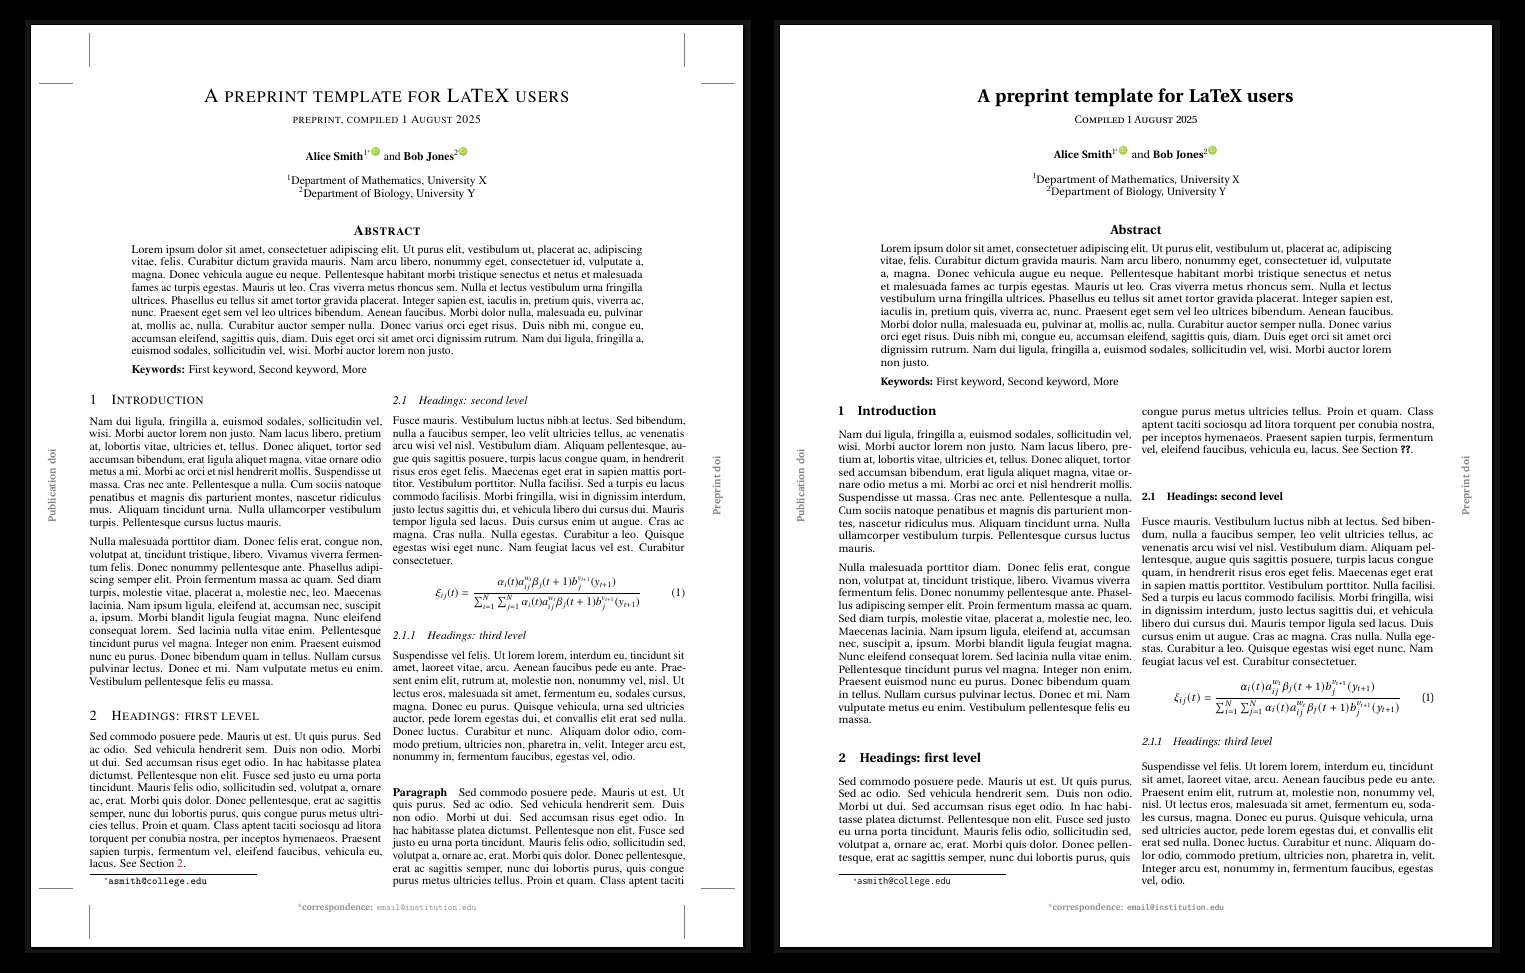
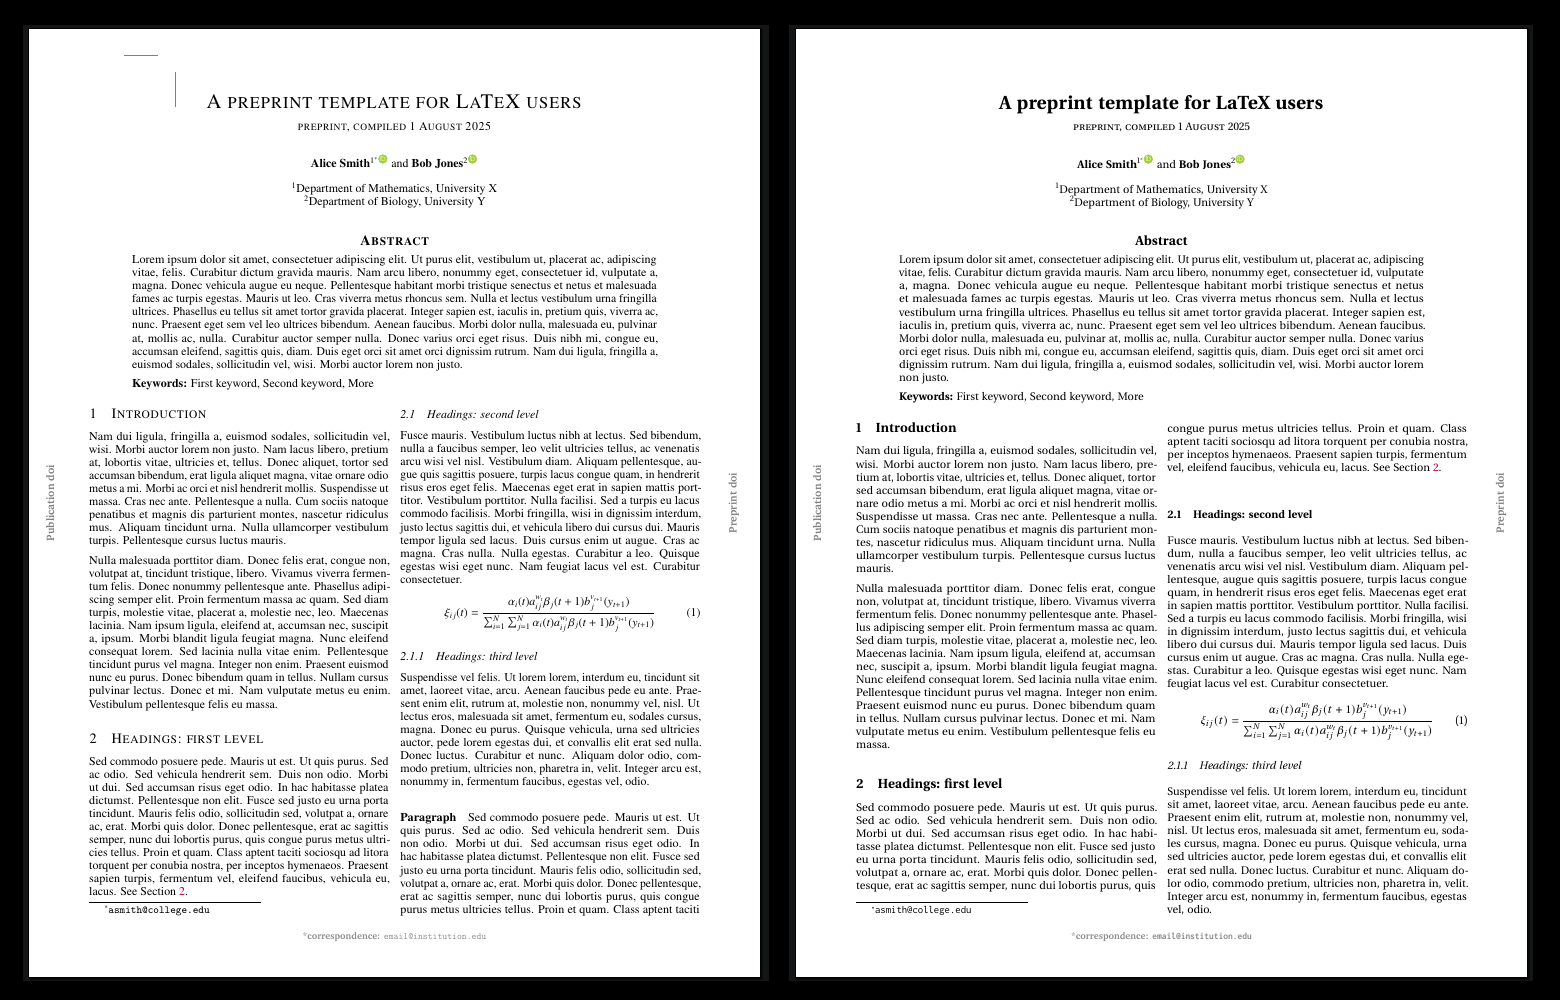
Fix Readme

diff --git a/README.md b/README.md
@@ -17,11 +17,11 @@ This was forked from the [`preprint-template.tex`](https://github.com/brenhinkel
 
 Under the hood, the style file has been completely rewritten in LaTeX3 syntax, which is how we are able to provide all of these options without it becoming an unmaintainable mess.
 In fact, the organization into separate files makes it _easier_ to maintain, despite the variety of options.
-For example, font options are easily added to `preprint+fonts.sty` by emulating one of the code already there, and then adding a corresponding option under `font .choice:` in `preprint.sty`.
+For example, font options are easily added to `preprint+fonts.sty` by emulating one of the code blocks already there, and then adding a corresponding option under `font .choice:` in `preprint.sty`.
 
 ![](side-by-side_thumbnails.png)
 
-To get almost identical output to the reference template `preprint-template.tex`, use the following to import the package:
+To get almost identical output to the original `preprint-template.tex`, use the following to import the package:
 
 ```latex
 \documentclass[twocolumn]{article}
@@ -55,22 +55,23 @@ In contrast, if you just `\usepackage{preprint+}` with default options, this wil
 | __geom__   | twocolumn | Page dimensions of `preprint-template.tex`, designed for two column output. Default option for `\documentclass[twocolumn]`. |
 |            | onecolum  | Page dimensions of the `arxiv-style`, designed for one column output. Default option for `\documentclass[onecolumn]`. |
 |            | natcomm   | A text area approximating that of the Nature Communications layout. A good choice if you want minimal margins. |
-|            | none      | Don’t set the page size; don’t even load the `geometry` package |
-| __headingstyle__| bold | Use bold face to demarcate headings (default) |
-|            | smallcaps | Use small caps to demarcate headings |
+|            | none      | Don’t set the page size; don’t even load the `geometry` package. |
+| __headingstyle__| bold | Use bold face to demarcate headings. (default) |
+|            | smallcaps | Use small caps to demarcate headings. |
 |            | none      | Don’t style headings; let the class do so according to its defaluts. |
 | __status__ | \<str\>   | Arbitrary string, akin to a subtitle. Will also be printed in the running header. Typical values are "Preprint", "Under review", "Published in ___" |
-| __supplementarytitle__   | \<str\> | Arbitrary string. Printed below the article title at the start of the supplementary. Default: "Supplementary Information" |
+| __supplementarytitle__   | \<str\> | Arbitrary string. Printed below the article title at the start of the supplementary. Default: "Supplementary Information". |
 | __supplementaryprefix__  | \<str\> | Arbitrary string which is printed before "figure" or "table" for floats in the supplementary. Default: "Supplementary". |
-| __floatplacement__       | loose | Close to the default float placement values for the `article` class (although still a bit more permissive). Makes it difficult to place text alongside floats, so they are more likely to be placed by themselves on a float page. |
-| / __suppfloatplacement__ | medium | More permissive; floats are less likely to be placed on their own page. |
-|                          | tight | Still more permissive; default for `__floatplacement__`, which is the setting for the main text and appendix. |
-|                          | extratight | Allows to place figures alongside text, even if there is very little text. Default for `__suppfloatplacement__`, which is the setting for the supplementary. |
+| __floatplacement__<br>/__suppfloatplacement__       | loose | Close to the default float placement values for the `article` class (although still a bit more permissive). Makes it difficult to place text alongside floats, so they are more likely to be placed by themselves on a float page. |
+|  | medium | More permissive; floats are less likely to be placed on their own page. |
+|                          | tight | Still more permissive; default for `floatplacement`, which is the setting for the main text and appendix. |
+|                          | extratight | Allows to place figures alongside text, even if there is very little text. Default for `suppfloatplacement`, which is the setting for the supplementary. |
 | font   | erewhon  | (default) A modern font which looks very similar to times but with simpler shapes, resulting in overall lighter text. This is a full font set, using the recommended combination of `erewhon` (roman), `cabin` (sans), `inconsolata` (typewriter) and `utopia` (math). |
 |        | times    | A Times New Roman font used by both `preprint-template.tex` and `arxiv-style`. Will use `txfonts` if available, providing consistent math fonts. Note that these math fonts are horizontally much more compact than others, which can affect how well equations fit into the column. |
 |        | cm       | Does not load any fonts, and so uses the Computer Modern defaults. Just sets `fontenc` and loads `amssymb` for consistency with other font options. |
 |        | venturis | This is the closest available TeX font I found to Nature’s sans-serif, although my search was far from exhaustive. Note that this is an incomplete font set: roman & math fonts are left unchanged. |
 |        | none     | Don’t do anything with regards to fonts, not even setting the `fontenc`. |
+| marginticks | N/A | If option `marginticks` is given, will print tick marks indicating the margins. Currently only works with `geom=twocolumn` because the dimensions are hard-coded. The default is not to print margin ticks. |
 
 
 ### Deactivation flags
